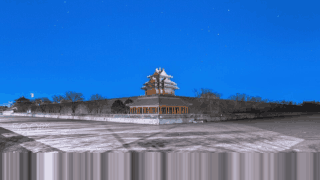
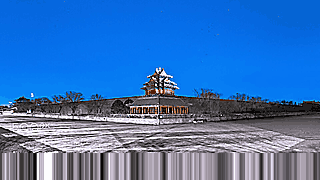
Sharpen the night backgrounds: hard-edged pixel-art processing
Median-filter the photos, downscale in two sharpened steps and reduce to
44 colours, instead of blurring before a plain downscale.

Claude-Session: https://claude.ai/code/session_01CguavxuoETr6EfHmwYqpVa

Changed region(s): [[0.0, 0.3611, 1.0, 1.0]]

diff --git a/tools/night_pixel.py b/tools/night_pixel.py
@@ -6,7 +6,10 @@ def pixelate(src, dst, cy=0.5, cx=0.5, colors=48, gamma=0.85, sat=1.2, shift=0):
     tw, th = (w, round(w * 9 / 16)) if w / h < 16 / 9 else (round(h * 16 / 9), h)
     x0 = round((w - tw) * cx); y0 = round((h - th) * cy)
     im = im.crop((x0, y0, x0 + tw, y0 + th))
-    im = im.filter(ImageFilter.GaussianBlur(tw / 320 * 0.35)).resize((320, 180), Image.BOX)   # 去噪点再缩
+    # 像素画要硬边：中值滤波去噪点但保住边缘，分两步缩小，每步都锐化（直接缩小照片会发糊）
+    im = im.filter(ImageFilter.MedianFilter(3))
+    im = im.resize((640, 360), Image.LANCZOS).filter(ImageFilter.UnsharpMask(2, 95, 2))
+    im = im.resize((320, 180), Image.LANCZOS).filter(ImageFilter.UnsharpMask(1.0, 125, 2))
     if shift:      # 画面整体上移：游戏里地面会挡住下面一截，把主体抬到看得见的位置；下面用最后一行补
         out = Image.new('RGB', (320, 180)); out.paste(im, (0, -shift))
         row = im.crop((0, 179, 320, 180))
@@ -14,7 +17,7 @@ def pixelate(src, dst, cy=0.5, cx=0.5, colors=48, gamma=0.85, sat=1.2, shift=0):
         im = out
     im = im.point(lambda v: round(255 * (v / 255) ** gamma))
     im = ImageEnhance.Color(im).enhance(sat)
-    im = ImageEnhance.Contrast(im).enhance(1.05)
+    im = ImageEnhance.Contrast(im).enhance(1.1)
     q = im.quantize(colors=colors, method=Image.Quantize.MEDIANCUT, kmeans=4, dither=Image.Dither.NONE)
     q.convert('RGB').save(dst, optimize=True)
 if __name__ == '__main__':
